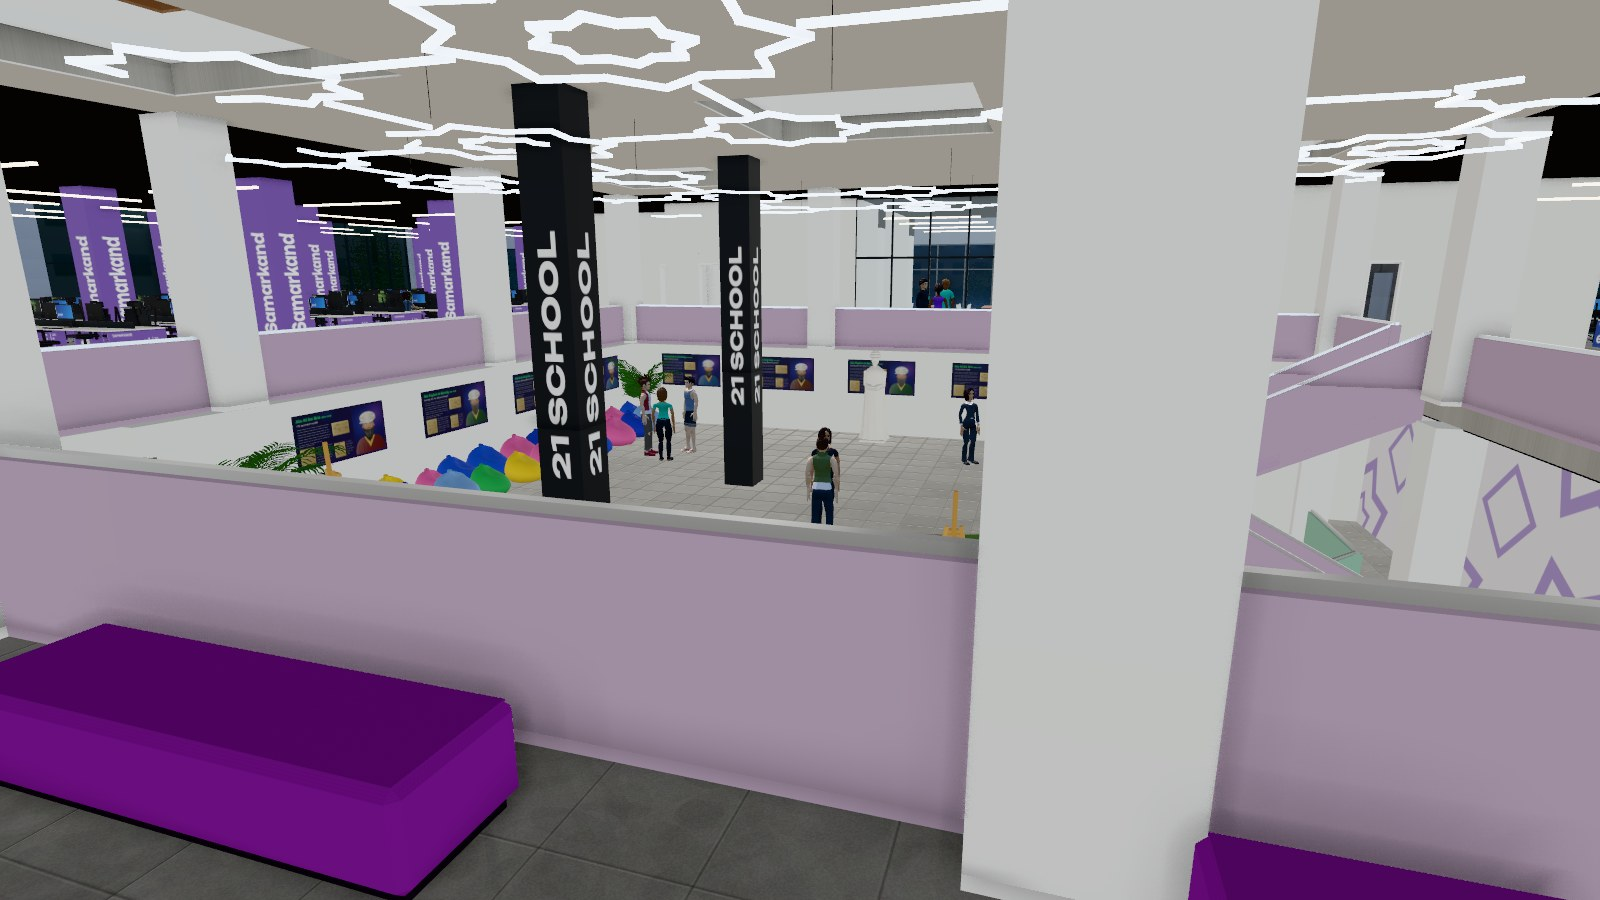
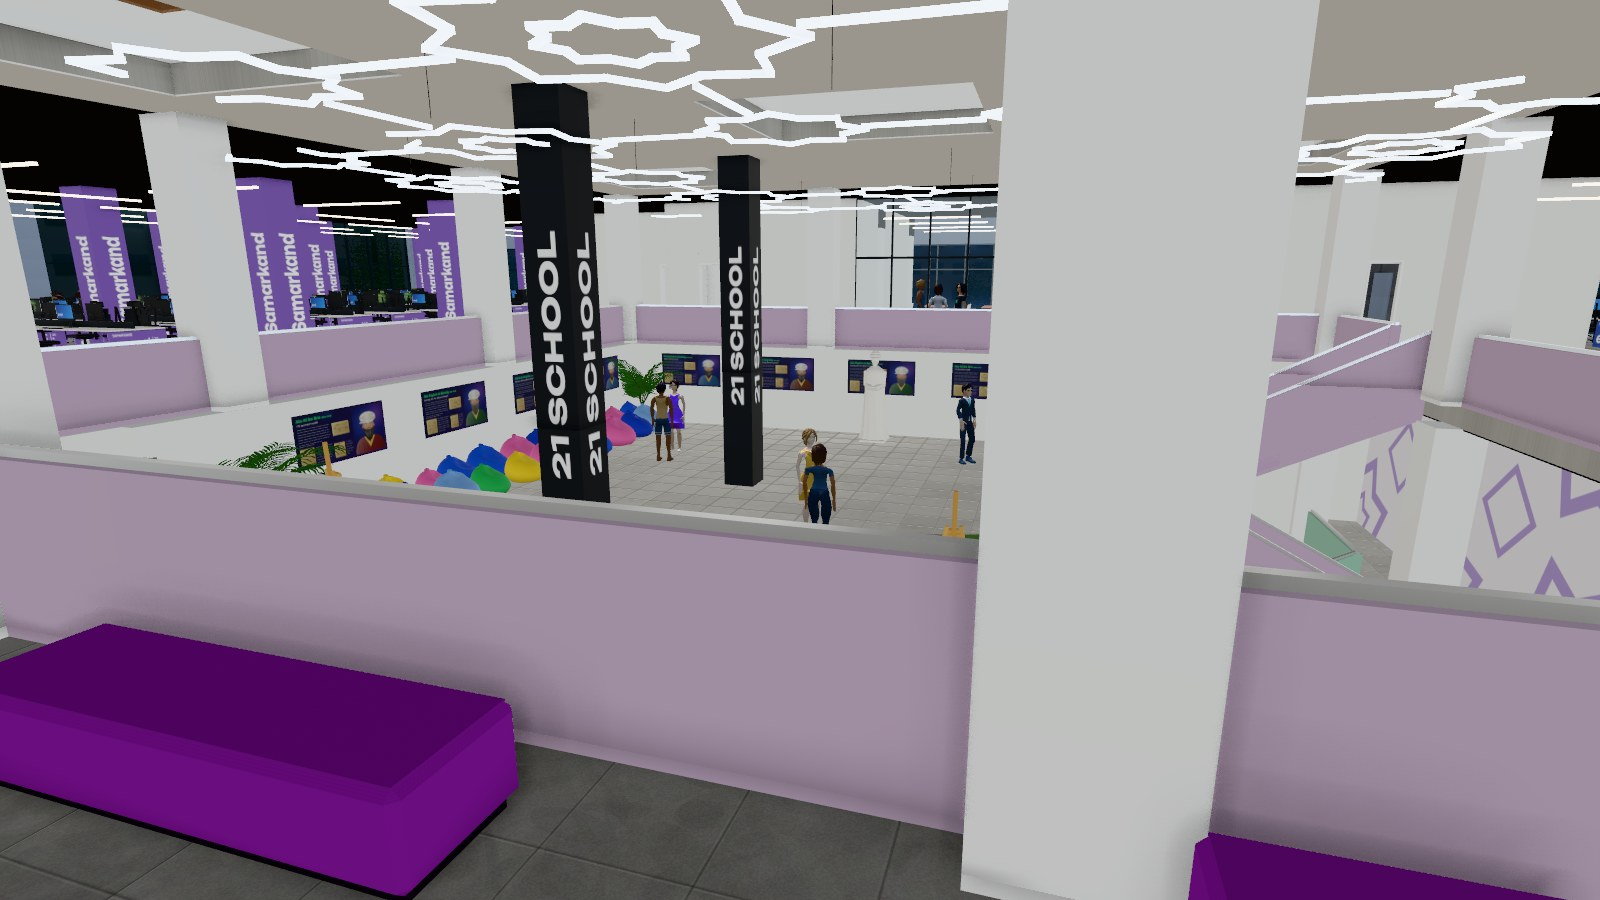
Люди: студенты во всех десяти кластерах, а не только в Tashkent и Samarkand; 70 мест за столами, ?crowd до 6
Места за столами шли по порядку постройки, и срез брал первые — восемь кластеров пустовали.
Скриншоты README пересняты с новым распределением.

diff --git a/src/build/people.js b/src/build/people.js
@@ -368,9 +368,11 @@ export function createPeople({ hq = true, levels, crowd = 1 }) {
 
   function populateNormal() {
     const n = hq ? 1 : 0.45;
-    // студенты за столами кластеров: часть мест, кластеры вперемешку
+    // студенты за столами кластеров: случайные места во всех десяти кластерах
+    // (места идут по порядку постройки — без перемешивания срез заполнял только Tashkent и Samarkand)
     const desk = seats.desk.filter(() => R() < 0.2 * n * crowd);
-    for (const s of desk.slice(0, Math.round((hq ? 30 : 14) * crowd))) {
+    for (let i = desk.length - 1; i > 0; i--) { const j = Math.floor(R() * (i + 1)); [desk[i], desk[j]] = [desk[j], desk[i]]; }
+    for (const s of desk.slice(0, Math.round((hq ? 70 : 20) * crowd))) {
       const p = spawn(s.level, R() < 0.35 ? 'peer21' : 'peer');
       p.place(s.u, s.v, s.z, s.face); p.setPose('sitType', { seat: s.h });
     }

diff --git a/src/main.js b/src/main.js
@@ -287,7 +287,7 @@ async function build() {
 async function loadPeople() {
   if (new URLSearchParams(location.search).get('people') === '0') return;
   // ?crowd=2 — вдвое больше людей (для съёмки видео; на обычном просмотре дорого)
-  const crowd = Math.min(4, Math.max(0.2, +(new URLSearchParams(location.search).get('crowd') || 1)));
+  const crowd = Math.min(6, Math.max(0.2, +(new URLSearchParams(location.search).get('crowd') || 1)));
   people = createPeople({ hq: HQ, levels: world.interior.levels, crowd });
   people.setCamera(camera);
   people.setSeats(world.interior.seats);

diff --git a/README.md b/README.md
@@ -19,7 +19,7 @@
   - 1 этаж: холл с турникетами, лобби и ивент-холл на 300 мест;
   - парящая площадка +2,25 со статуей и стендами учёных Востока;
   - 2 и 3 этажи: десять кластеров, кухни, переговорные и лаунж под пирамидой.
-- **Люди.** 75 человек на компьютере, около 30 на телефоне. Студенты в форме School 21 и в обычной одежде печатают за моноблоками, слушают в лектории, общаются в лобби и на площадке, ходят по галереям. В «Празднике» все собираются в ивент-холле.
+- **Люди.** 117 человек на компьютере, около 40 на телефоне. Студенты в форме School 21 и в обычной одежде печатают за моноблоками, слушают в лектории, общаются в лобби и на площадке, ходят по галереям. В «Празднике» все собираются в ивент-холле.
 - **Прогулка от первого лица** с физикой: лестницы, ограждения, мини-карта с переносом по клику, полёт сквозь стены. На телефоне — джойстик.
 - **Разрезы и планы.** Любой уровень открывается разрезом. Есть SVG-планы этажей и ситуационный план участка.
 - **Достоверность.** Каждая зона знает, откуда о ней известно: с поэтажного плана, с панорамы, из видео или достроена по логике здания.
@@ -34,7 +34,7 @@
 <td width="50%"><img src="docs/screenshots/s21_cutaway.jpg" alt="Разрез второго этажа"><br><sub><b>Разрез 2 этажа.</b> Кластеры, галерея вокруг второго света, кухня и переговорные</sub></td>
 </tr>
 <tr>
-<td><img src="docs/screenshots/s21_cluster.jpg" alt="Кластер Tashkent"><br><sub><b>Кластер Tashkent.</b> Ряды моноблоков, колонны в цвете кластера, студенты за работой</sub></td>
+<td><img src="docs/screenshots/s21_cluster.jpg" alt="Кластер Tashkent"><br><sub><b>Кластер Tashkent.</b> Ряды моноблоков, колонны в цвете кластера, студенты за работой (здесь <code>?crowd=2</code>)</sub></td>
 <td><img src="docs/screenshots/s21_amphitheater.jpg" alt="Лекторий-амфитеатр"><br><sub><b>Лекторий на уровне −1.</b> Здесь проходят защиты проектов и хакатоны</sub></td>
 </tr>
 <tr>
@@ -75,7 +75,7 @@ python3 -m http.server 5321
 | `?party` или `#party` | Сразу включить «Праздник» |
 | `?q=low` / `?q=high` | Качество графики. По умолчанию телефоны получают `low` |
 | `?people=0` | Без людей: быстрее загрузка |
-| `?crowd=2` | Вдвое больше людей (от 0,2 до 4) |
+| `?crowd=2` | Вдвое больше людей (от 0,2 до 6) |
 
 ## Управление
 
@@ -172,7 +172,7 @@ An unofficial, 1:1 interactive 3D model of the School 21 campus in Tashkent (13 
 
 - **What's inside:**
   - the exterior and five levels with interiors (atrium and lecture amphitheatre, event hall, floating platform, ten clusters, the lounge under the glass pyramid);
-  - 75 animated people (about 30 on phones), students in School 21 uniform and in casual clothes;
+  - 117 animated people (about 40 on phones), students in School 21 uniform and in casual clothes;
   - a first-person walk with physics, cut-away views, SVG floor plans, a zone editor and day, evening and night lighting;
   - a festive "Party" mode for the campus birthday ([`?party`](https://school21-tashkent.vercel.app/?party)).
 - **Run it:** there is no build step. Serve the folder with any static server (`python3 -m http.server 5321`) and open `http://localhost:5321`.

diff --git a/AGENTS.md b/AGENTS.md
@@ -21,10 +21,10 @@ python3 -m http.server 5321      # из корня репозитория → ht
 
 | URL-параметр | Что делает |
 |---|---|
-| `?q=high` / `?q=low` | Качество. high: MSAA ×4, GTAO, тени 4096, все 9 моделей людей. low: FXAA, тени 2048, упрощённая мебель, 4 модели. Без параметра телефоны и маленькие экраны получают low |
+| `?q=high` / `?q=low` | Качество. high: MSAA ×4, GTAO, тени 4096, все 9 моделей людей (117 человек). low: FXAA, тени 2048, упрощённая мебель, 4 модели (37 человек). Без параметра телефоны и маленькие экраны получают low |
 | `?party` или `#party` | Сразу включить режим «Праздник» |
 | `?people=0` | Без людей: быстрее загрузка. Тесты так и запускаются |
-| `?crowd=2` | Плотность людей ×2 (от 0,2 до 4). Нужна для съёмки видео, в обычном просмотре дорого |
+| `?crowd=2` | Плотность людей ×2 (от 0,2 до 6). Нужна для съёмки видео, в обычном просмотре дорого |
 
 ### Отладочный API в консоли: `window.__s21`
 
@@ -117,7 +117,7 @@ python3 -m http.server 5321      # из корня репозитория → ht
    - Статику сливай в `Batch`, повторяющееся — в `Instancer`.
    - Материал на объект не создавай, бери `mats.get(key)`.
    - Каждый человек — один draw call. Толпу меняй коэффициентами, а не циклами по сотням мест.
-   - Ориентир `tools/perf.mjs` (headless, q=high, 1440×900, Mac на Apple Silicon): кластер ≈ 36 fps, лобби ≈ 37, снаружи ≈ 51, ивент-холл в «Празднике» ≈ 22. Просадка больше 15 % — повод разобраться до коммита.
+   - Ориентир `tools/perf.mjs` (headless, q=high, 1440×900, Mac на Apple Silicon): кластер ≈ 44 fps, лобби ≈ 36, снаружи ≈ 57, ивент-холл в «Празднике» ≈ 31. Просадка больше 15 % — повод разобраться до коммита.
 5. **Шрифты.** Текстуры с текстом рисуются после загрузки Unbounded, Onest и JetBrains Mono с Google Fonts. Новый шрифт добавь в `<link>` в `index.html` и в список ожидания в `build()`.
 6. **Камера из кода.** Если ставишь камеру скриптом и смотришь вверх, задай `controls.maxPolarAngle = Math.PI` и малый `minDistance`. Иначе OrbitControls молча поднимет камеру к уровню цели (так сделано в `tools/shot.mjs`).
 7. **Без внешних картинок.** Фото из источников — только референс, в репозиторий их не кладём. Логотипы, фото людей и чужие изображения не добавляем, рисуем процедурно.
